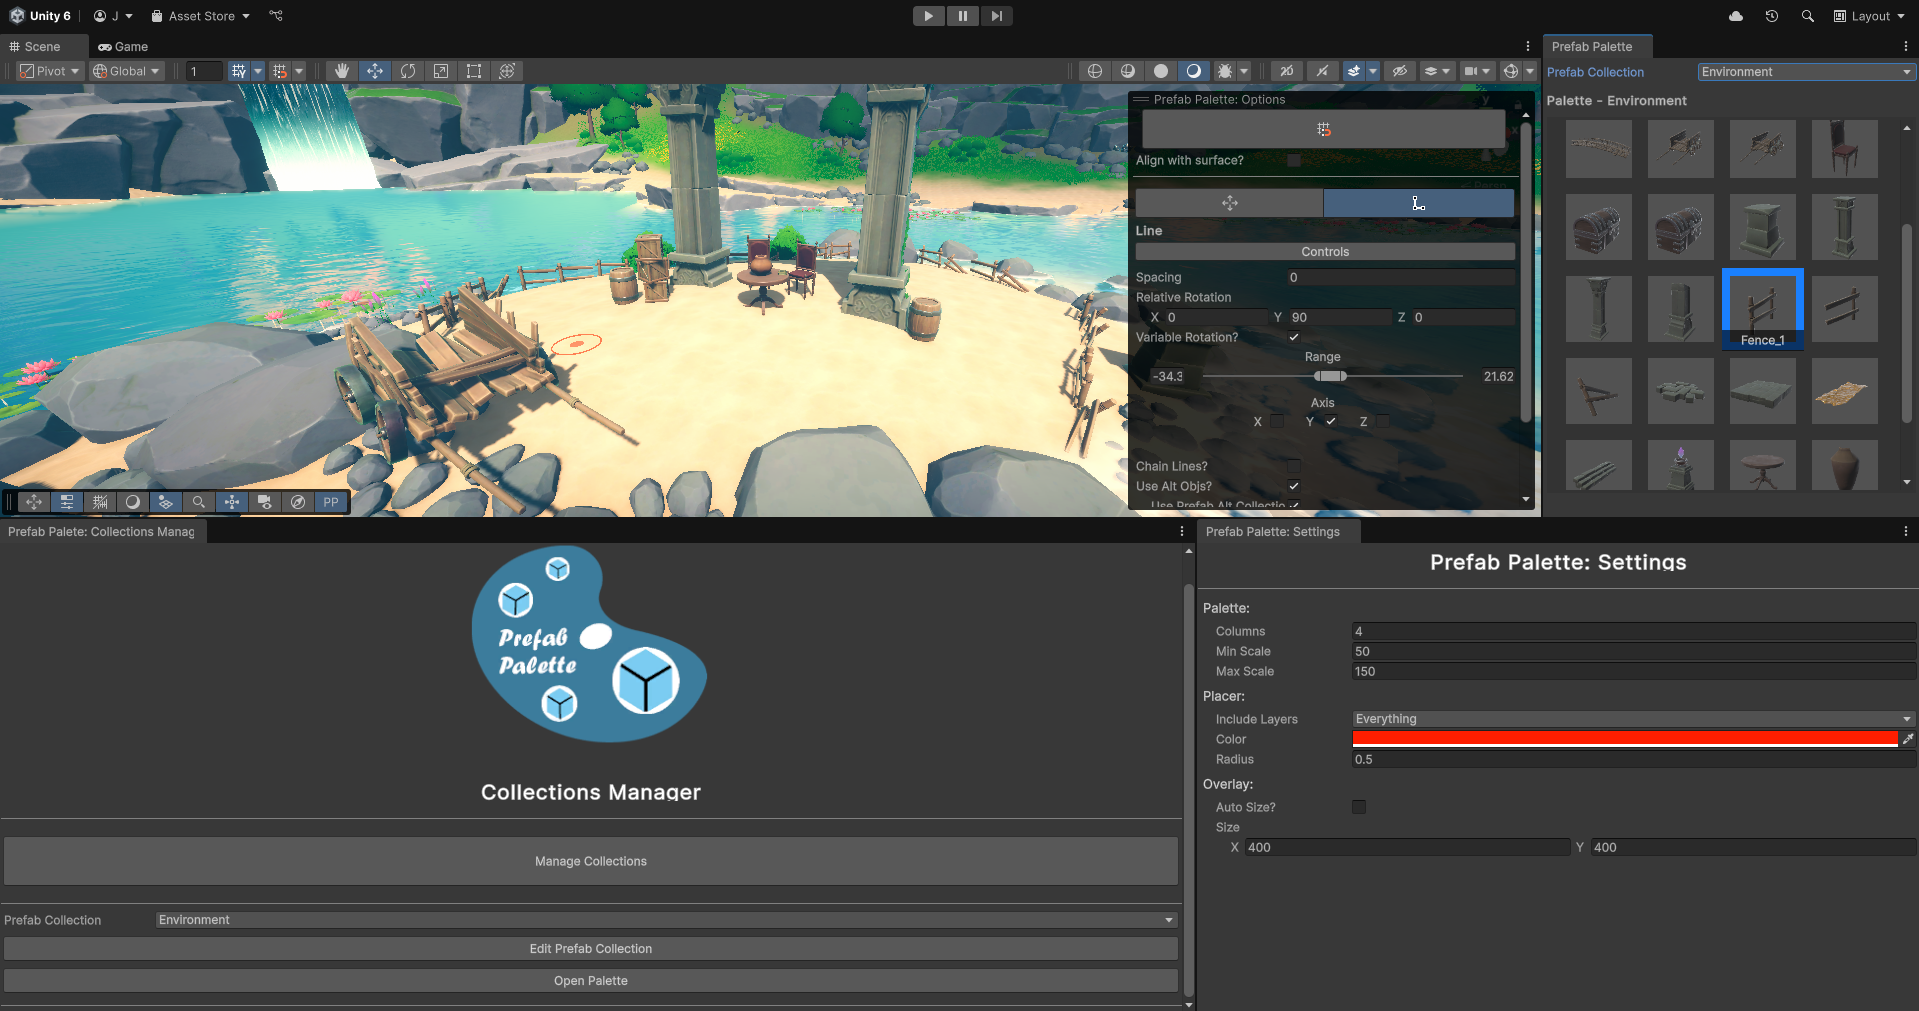
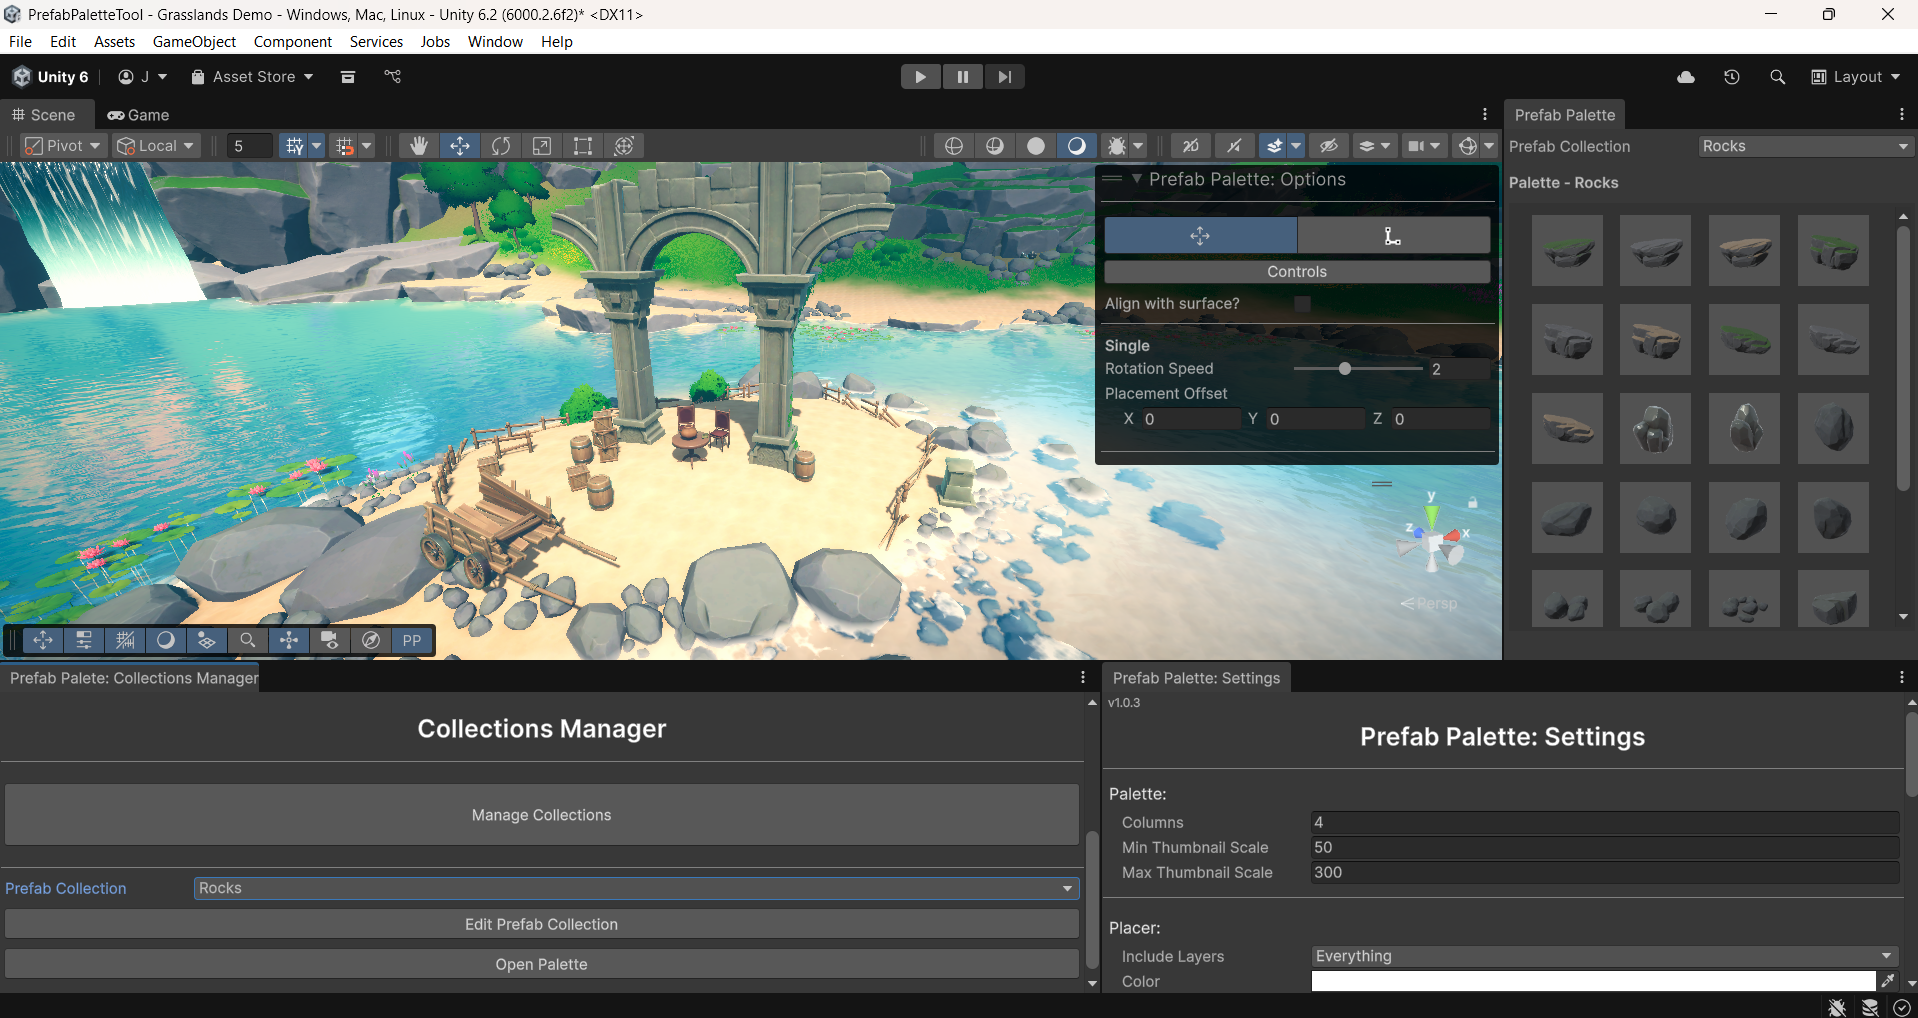
Squashed commit of the following:
commit 789bfc493c745f69c32661f7795d21caca521637
Author: FrayedFunction <[email redacted]>
Date:   Wed Feb 4 14:30:27 2026 +0000

    Fix image link in ControlsHelpBox description

    Updated image link in ControlsHelpBox documentation.

commit c95e3e4909c60121ca1b0b4750a5ae72b9a9ae52
Author: FrayedFunction <[email redacted]>
Date:   Wed Feb 4 14:28:14 2026 +0000

    Update links in README to new directory structure

commit 5483be15086e8f69a3f7dbf141f0335bedefdc0f
Author: Jon McCreadie <[email redacted]>
Date:   Wed Feb 4 14:22:34 2026 +0000

    Fix broken link

commit 945a300c690c2c43cdb351b372c27649e1ccddb3
Author: Jon McCreadie <[email redacted]>
Date:   Wed Feb 4 14:19:35 2026 +0000

    Update Imgs

commit 421ef1a9105836484754ed3a02ff06feb4695103
Author: Jon McCreadie <[email redacted]>
Date:   Wed Feb 4 13:55:19 2026 +0000

    Remove Snapping Description

commit 9d729aedc95bb6f03875be0d73a6e05726c132bc
Author: Jon McCreadie <[email redacted]>
Date:   Wed Feb 4 13:52:45 2026 +0000

    Tighten core features

commit fa358088b752e87f94b7d019f870e2a6d4e69f64
Merge: 7f730b8 0e5793f
Author: Jon McCreadie <[email redacted]>
Date:   Wed Feb 4 13:33:51 2026 +0000

    Merge branch 'release/v1.0.3' into chore/docs-restructure

commit 7f730b8fdddf874a0204d9748c8739fa3c77568b
Merge: 8b55649 fdc0180
Author: Jon McCreadie <[email redacted]>
Date:   Tue Feb 3 21:35:40 2026 +0000

    Merge branch 'release/v1.0.3' into chore/docs-restructure
[…]

diff --git a/Docs/_NoShip/Maintainer.md b/Docs/_NoShip/Maintainer.md
@@ -1,0 +1,56 @@
+### Versioning
+
+Prefab Palette follows [Semantic Versioning](https://semver.org/) — `MAJOR.MINOR.PATCH`.
+
+Please update the version appropriately if your contribution changes behavior or functionality:
+
+- **MAJOR** – Incompatible API or system changes.
+- **MINOR** – New features or functionality (backwards-compatible).
+- **PATCH** – Bug fixes, internal refactors, or documentation updates.
+
+> ✅ Example: If you add a new placement mode without breaking anything else, bump from `1.2.0` to `1.3.0`.
+
+---
+
+## Distribution
+
+Prefab Palette is distributed as a zip containing a `.unitypackage` and a copy of core docs at the time of release.
+
+### 1. Prepare for Export
+
+1. Open `Window > Prefab Palette > Collections Manager`, choose `Manage Collections` and remove all items from the list.
+2. Open `PrefabPalette/Editor/Generated` folder. 
+3. Delete everything except `CollectionName.cs`
+4. Ensure no prefabs or other third-party assets are contained in the package.
+5. Create an empty folder named `PrefabPalette_vX.Y.Z` to contain the release.
+
+### 2. Export `.unitypackage`
+1. In the **Project** window, select the `PrefabPalette` folder.
+2. Right-click the selection and choose **Export Package...**
+3. In the export dialog:
+   - Deselect **Include dependencies**
+   - Deselect **Include all scripts**
+   - Deselect `PrefabPalette/Docs` folder.
+4. **Export** package to the empty folder created in step one, then name it:  
+   `PrefabPalette_vX.Y.Z.unitypackage`
+
+### 3. Include Core Docs
+1. Create a new folder called `docs` in the same one as the unity package.
+2. Copy the following (⚠️ Exclude `.meta` files!):
+   * imgs
+   * README.md
+   * Changelog.md
+   * License.md
+
+### 4. Zip the contents
+The zipped folder should now resemble the following structure:
+
+      |- PrefabPalette_vX.Y.Z.zip
+      |-- PrefabPalette_vX.Y.Z
+      |--- docs
+      |---- imgs
+      |---- Changelog.md
+      
+> Attach zip to a new github release with the same version tag.
+
+⚠️ Note: Ensure no prefabs or other assets are contained in the release!

diff --git a/Docs/README.md b/Docs/README.md
@@ -1,9 +1,9 @@
 ![Logo](imgs/Logo_Blue_256.png)
-# Prefab Palette: Read Me
+# Prefab Palette
 ---
 ## See Also
-* [Developers](./Developers.md)
-* [ContributionsGuide](./ContributionsGuide.md) 
+* [Developers](./_NoShip/Developers.md)
+* [ContributionsGuide](./_NoShip/ContributionsGuide.md) 
 ---
 
 ## **Overview**
@@ -21,29 +21,29 @@
 
 ## **Core Features**
 
-* *Prefab Collections*:  
-  Organise your prefabs into custom collections using either the Collections Manager window or by selecting folders/assets in the Project Window and using the create collection option from the right-click context menu.
+* **Prefab Collections**:
+  Organise assets into custom collections via the *Collections Manager* or directly from the Project Window’s right-click context menu.
 
-* *Palette Window*:  
-  Dockable window to browse prefab collections and select prefabs via their thumbnails.
+* **Palette Window**:
+  A dockable browser to visualise and select prefabs quickly through their thumbnails.
 
-* *Scene View Overlay:*  
-  Overlay UI for changing global placement settings, switching Placement Modes and customising their settings directly in the Scene View.
+* **Scene View Overlay**:
+  Manage placement settings and toggle *Placement Modes* without leaving the Scene View.
 
-* *Visual Placer:*  
-  When the tool is active, a target reticle will appear in the scene view, following your mouse to show where the prefab will be placed based on the current mode and settings.
+* **Visual Placer**:
+  A dynamic target reticle follows your cursor, providing real-time feedback on exactly where and how your prefab will land.
+    
+* **Placement Modes**:
+  Switch between specialised placement behaviors, each with unique logic and settings.
 
-* *Placement Modes:*  
-  Swap between unique placement behaviors with their own set of options, all in the scene view overlay.
+* **Fully Configurable**:
+  Fine-tune your workflow in the *Tool Settings* window. Adjust UI scale, reticle colors, physics layers, and more.
 
-* *Configurable:*  
-  Customise tool-wide settings in the Tool Settings window. Adjust the palettes’ scale, overlay size, placer colour, placer physics layer and more.
+* **Native Integration**:
+  Seamlessly supports Unity’s native *Undo/Redo* system and standard *Snap Controls*.
 
-* *Undo/Redo Integration:*  
-  Instantiated prefabs are integrated into Unitys native Undo/Redo system. 
-
-* *Extendable:*  
-  Built with a modular, state-based design, making it easy to add new placement modes. see [Developers.md](./Developers.md) for detailed guidance.
+* **Extensible Architecture**:
+  Built on a modular, state-based design. Implement custom placement logic by following the [Developer Guide](./_NoShip/Developers.md#creating-new-mode).
 
 ---
 
@@ -95,7 +95,7 @@ The palette can be opened through either:
 ---
 
 ## **Overlay** 
-The overlay is used to toggle common settings, switch between modes, and adjust mode specific options all from the scene view. Its size can be customised via the tool settings window, see section 6 for more info.  
+The overlay is used to toggle common settings, switch between modes, and adjust mode specific options from the scene view. Its size can be customised via the tool settings window.
 
 ### How to open
 Unity Version:
@@ -103,7 +103,7 @@ Unity Version:
  * **2023.1+**: Open with the overlay toolbar icon ![Overlay Icon](imgs/OverlayToolbarIcon.png) 
 
 ### Resizing the overlay
-See the *Overlay* options in the [Tool Settings & Customisation](#ToolSettings&Customisation) section.
+See the *Overlay* options in the [Tool Settings & Customisation](#tool-settings--customisation) section.
 
 ---
 
@@ -113,8 +113,8 @@ These options are available across all placement modes.
 
 | *Option* | *Effect* |
 | :---- | :---- |
-|  **Snapping** | Toggle snap to grid, use native grid system toolbar for dimensions. |
 | **Align with surface?** | Align the prefabs rotation with the normal of the surface it’s placed on. |
+
 ### **Single**
 Click to place a single selected prefab instance.
 
@@ -149,6 +149,8 @@ Use this mode to draw a line of prefabs and control how the line renders with th
 ## **Tool Settings & Customisation**
 
 Settings window can be opened via `Window > Prefab Palette > Settings`
+
+![Settings Window](imgs/SettingsWindow.png) 
 
 **Palette**
 | *Option* | *Effect* |
@@ -221,7 +223,7 @@ See [License](./License.md) file for terms of use, redistribution, & modificatio
 **Q: Can I use this with terrain?**  
  A: Yes, the tool supports placement on Unity Terrain.
 
-**Q: Why can’t the tool be installed via the Unity Package Manager?**  
+**Q: Why can’t the tool be installed via Unity Package Manager?**  
  A: The tool relies on an enum generated at runtime to populate dropdowns with available collections. UPM expects packages to remain unchanged, so generating files at runtime isn’t possible. Since the generated enum needs to reside within the package's assembly definition to be accessible by dependent code, this restriction makes UPM unsuitable for distributing this tool. Working around this constraint would introduce significant complexity.
 
 ---
@@ -233,7 +235,7 @@ You can also reach out directly via email at [email redacted].
 ---
 
 ## **Changes & Planned Features**
-Release history is available in the [Changelog](./Changelog.md).
+Release history is available in [Changelog](./Changelog.md).
 
 Upcoming and planned features are tracked on the GitHub Issues page:
 - Filter by the `enhancement` label to see open feature requests.